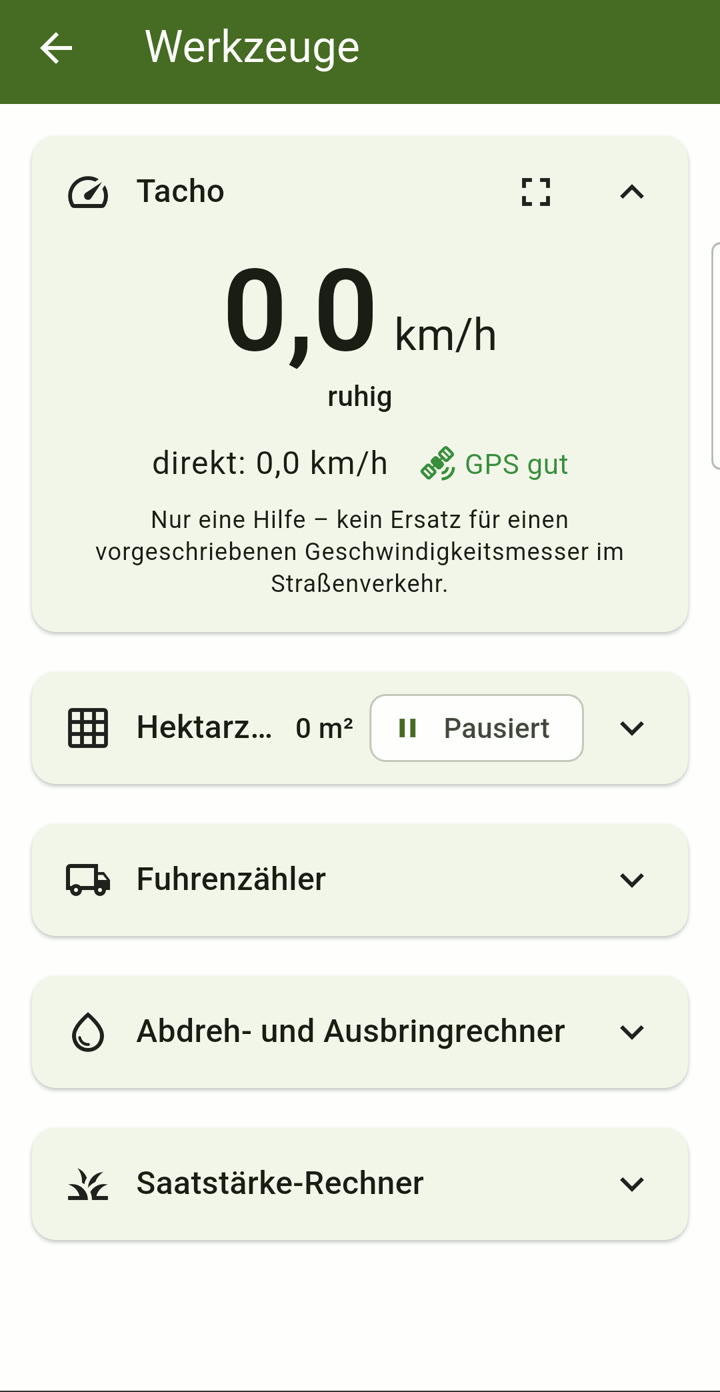
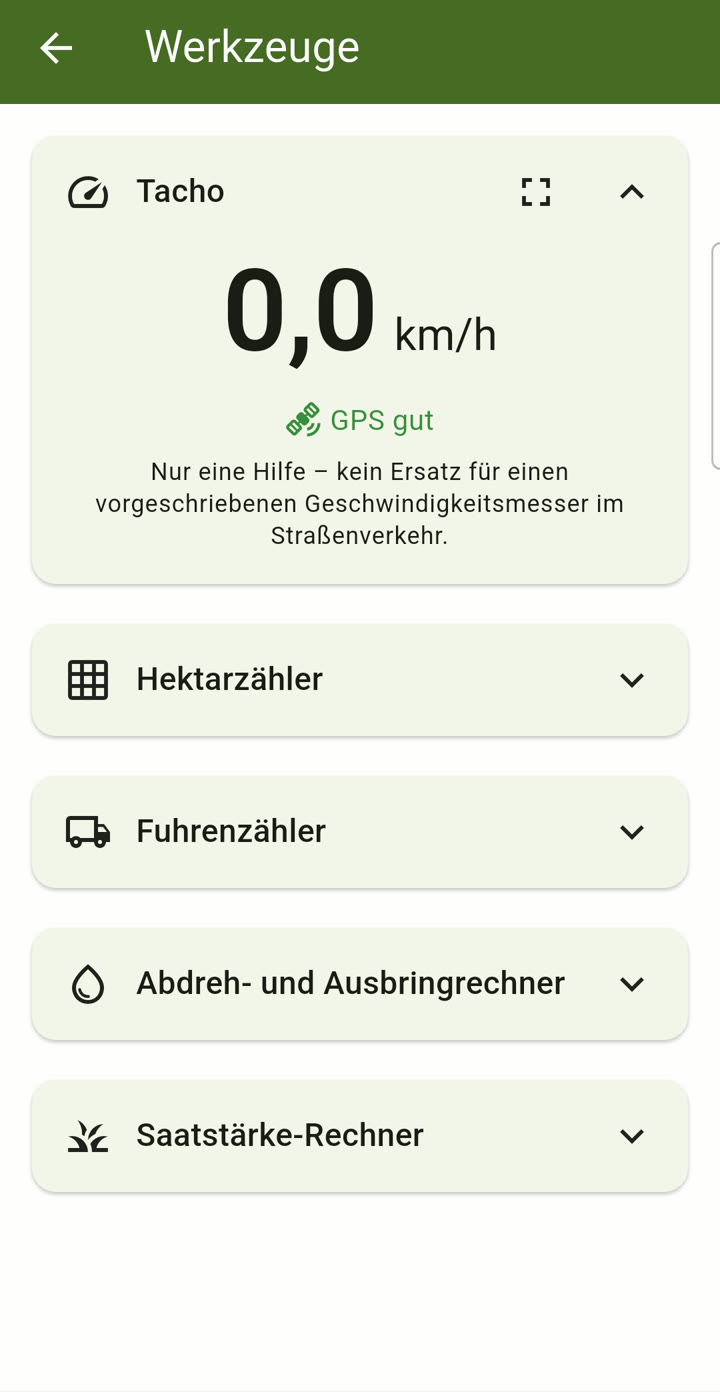
Entwurf Werkzeuge: Tacho mit einem GPS-Wert (Text und Screenshots)

diff --git a/index.html b/index.html
@@ -297,7 +297,7 @@
           <p class="lead" data-i18n="toolsLead">Schalte in den Einstellungen nur die Werkzeuge ein, die du brauchst – sie liegen dann griffbereit in einem eigenen Bereich der App.</p>
         </div>
         <ul class="tool-list">
-          <li><span class="ico"><svg><use href="#i-speed"/></svg></span><div><h3 data-i18n="t1t">Tacho</h3><p data-i18n="t1p">Geschwindigkeit per GPS, ruhig geglättet und auf Wunsch im Vollbild – ideal für Schlepper ohne Radar.</p></div></li>
+          <li><span class="ico"><svg><use href="#i-speed"/></svg></span><div><h3 data-i18n="t1t">Tacho</h3><p data-i18n="t1p">Geschwindigkeit direkt vom GPS, auf Wunsch im Vollbild – ideal für Schlepper ohne Radar.</p></div></li>
           <li><span class="ico"><svg><use href="#i-grid"/></svg></span><div><h3 data-i18n="t2t">Hektarzähler</h3><p data-i18n="t2p">Bearbeitete Fläche aus Strecke und Arbeitsbreite, dazu Arbeitszeit und Leistung – zählt auch bei ausgeschaltetem Bildschirm weiter.</p></div></li>
           <li><span class="ico"><svg><use href="#i-truck"/></svg></span><div><h3 data-i18n="t3t">Fuhrenzähler</h3><p data-i18n="t3p">Zählt automatisch, wie oft du an der Abladestelle warst – zum Beispiel beim Silieren oder Güllefahren.</p></div></li>
           <li><span class="ico"><svg><use href="#i-drop"/></svg></span><div><h3 data-i18n="t4t">Abdreh- und Ausbringrechner</h3><p data-i18n="t4p">Für die Spritze Ausbringmenge und Düsenausstoß, für Streuer und Sämaschine die Abdrehprobe.</p></div></li>
@@ -477,7 +477,7 @@ const en = {
   f8t: "Tools for field work", f8p: "Speedometer, area and load counter plus calculators for application rate and seed rate – right in the app, no extra device needed.",
   toolsEyebrow: "New: Tools", toolsTitle: "Handy helpers for field work",
   toolsLead: "Switch on only the tools you need in the settings – they are then close at hand in their own section of the app.",
-  t1t: "Speedometer", t1p: "Speed via GPS, smoothly filtered and full-screen if you like – ideal for tractors without radar.",
+  t1t: "Speedometer", t1p: "Speed straight from GPS, full-screen if you like – ideal for tractors without radar.",
   t2t: "Area counter", t2p: "Worked area from distance and working width, plus working time and output – keeps counting with the screen switched off.",
   t3t: "Load counter", t3p: "Automatically counts how often you were at the unloading point – for example when silaging or spreading slurry.",
   t4t: "Calibration and application calculator", t4p: "Application rate and nozzle output for the sprayer, calibration test for spreaders and seed drills.",
